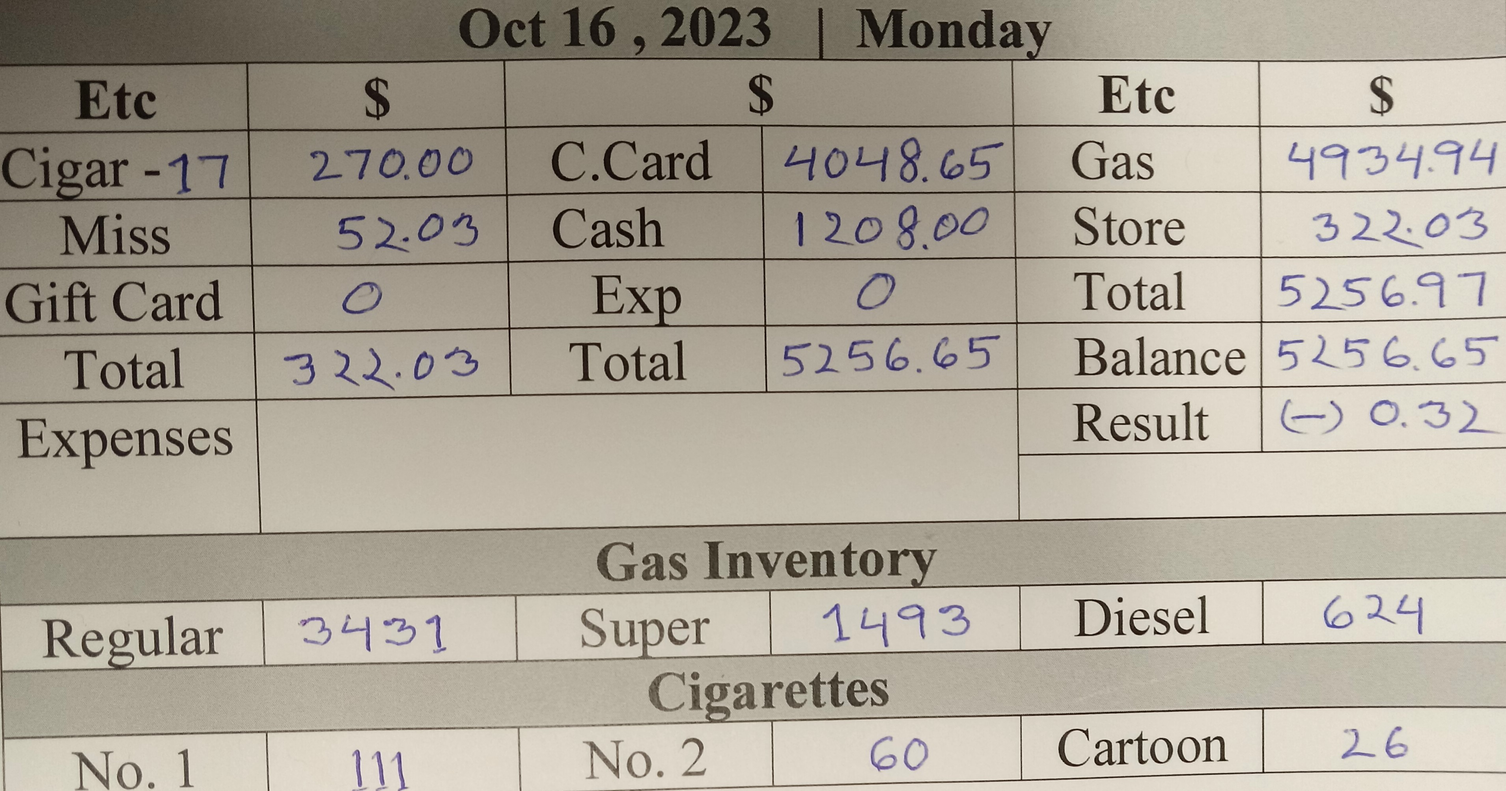
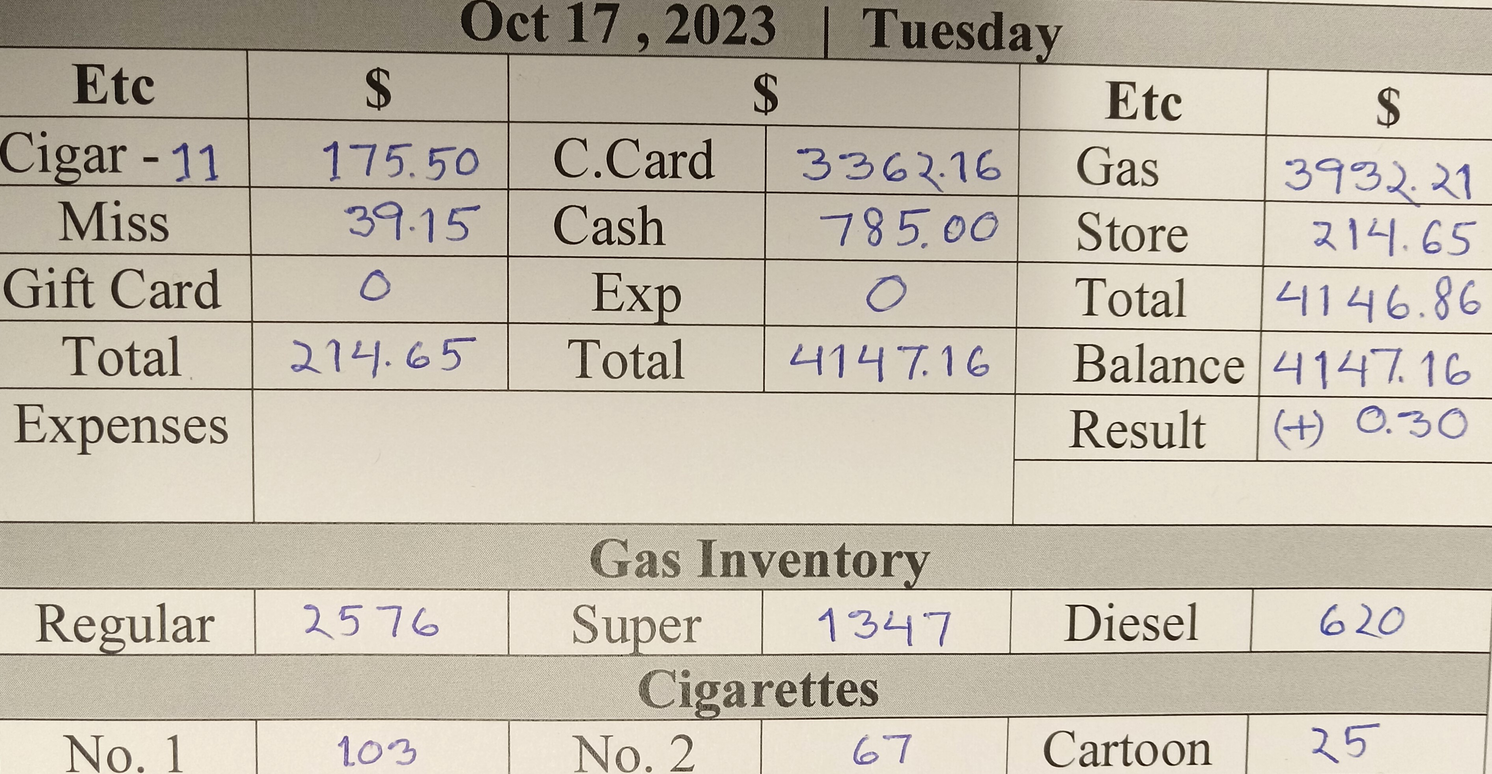
17 done

diff --git a/card.html b/card.html
@@ -67,7 +67,7 @@
         </h5>
           <p class="card-text"></p>
           <p class="card-text"><small class="text-muted"></small></p>
-        <img src="16.jpg" class="card-img-top text-danger text-center fw-bolder fs-3" 
+        <img src="17.jpg" class="card-img-top text-danger text-center fw-bolder fs-3" 
 
           alt="Call Rashid ">
         <div class="card-body">
@@ -80,14 +80,14 @@
         <h5 class="card-title text-center pt-4 m-0">
           <button class="p-1 rounded-3" type="button"><a title="Click Me"
              class="text-primary fw-bolder text-decoration-none " href="index.html">
-             Oct 15,2023
+             Oct 16,2023
 
           </a>
           </button>
         </h5>
           <p class="card-text"></p>
           <p class="card-text"><small class="text-muted"></small></p>
-        <img src="15.jpg" class="card-img-top text-center text-bg-danger" 
+        <img src="16.jpg" class="card-img-top text-center text-bg-danger" 
         alt="Not Done">
         <div class="card-body">
           <h5 class="card-title"></h5>
@@ -99,13 +99,13 @@
         <h5 class="card-title text-center pt-4 m-0 ">
           <button class="p-1 rounded-3" type="button"><a title="Click Me" 
             class="text-primary fw-bolder text-decoration-none " href="index.html">
-            Oct 14,2023          
+            Oct 15,2023          
           </a>
           </button>
           </h5>
           <p class="card-text"></p>
           <p class="card-text"><small class="text-muted"></small></p>
-        <img src="14.jpg" class="card-img-top text-center text-bg-danger" 
+        <img src="15.jpg" class="card-img-top text-center text-bg-danger" 
         alt="Not Done">
         <div class="card-body">
           <h5 class="card-title"></h5>
@@ -119,14 +119,14 @@
           <button class="p-1 rounded-3" type="button"><a title="Click Me" 
             class="text-primary fw-bolder text-decoration-none " href="index.html">
 
-             Oct 13,2023
+             Oct 14,2023
             </a>
           </button>
           </h5>
           <p class="card-text"></p>
           <p class="card-text"><small class="text-muted"></small></p>
 
-        <img title="Pic" src="13.jpg" class="card-img-top  text-bg-danger fw-bolder text-center"
+        <img title="Pic" src="14.jpg" class="card-img-top  text-bg-danger fw-bolder text-center"
         
          alt="Already Done">
         <div class="card-body">

diff --git a/index.html b/index.html
@@ -109,12 +109,12 @@
       <div class="d-flex justify-content-around border border-dark fw-bolder">
         <!--this week start-->
         <div class="p-0 text-info">T.M</div>
-        <div class="p-0 text-danger">526</div>
+        <div class="p-0 text-danger">1694</div>
         <div class="p-0 text-info">Etc</div>
-        <div class="p-0 text-danger">39</div>
+        <div class="p-0 text-danger">762</div>
         <div class="p-0 text-info">Rest</div>
-        <div class="p-0 text-danger">487</div>
-          <!--0-->
+        <div class="p-0 text-danger">932</div>
+          <!--15-->
           <!--this week end-->
 
           <!-- last week start-->
